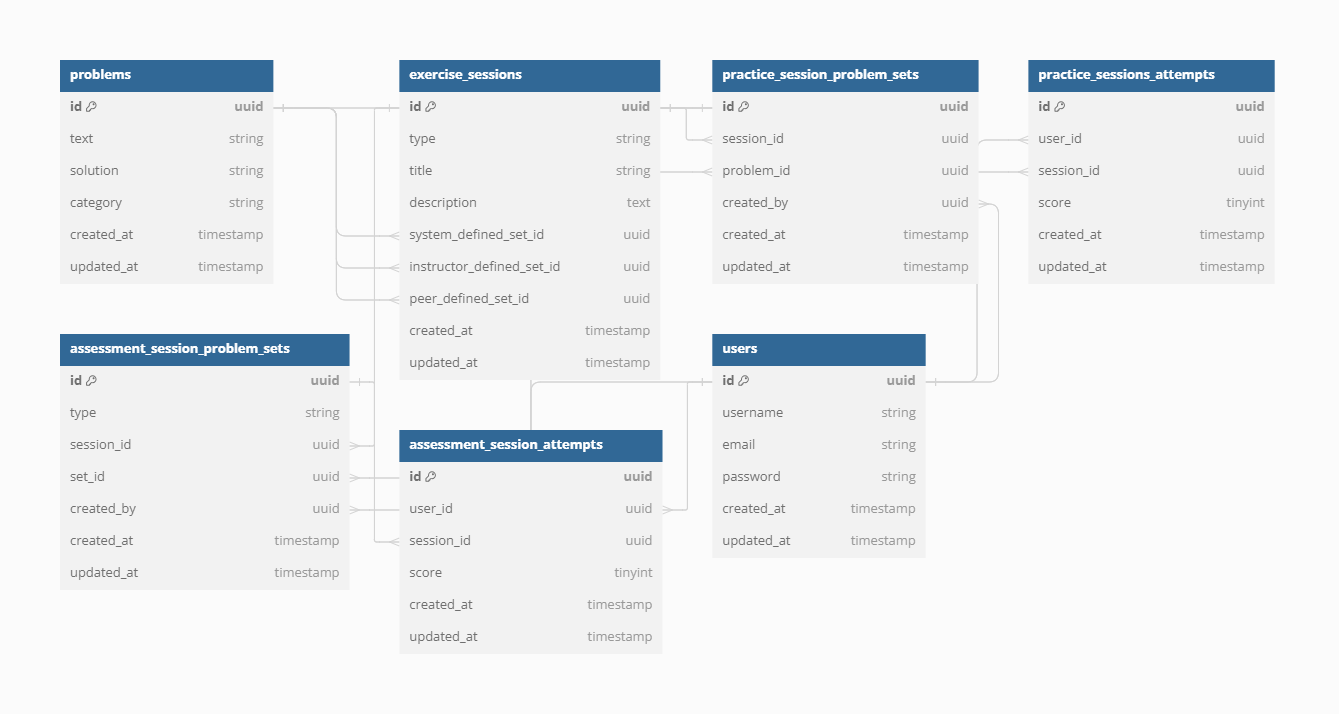
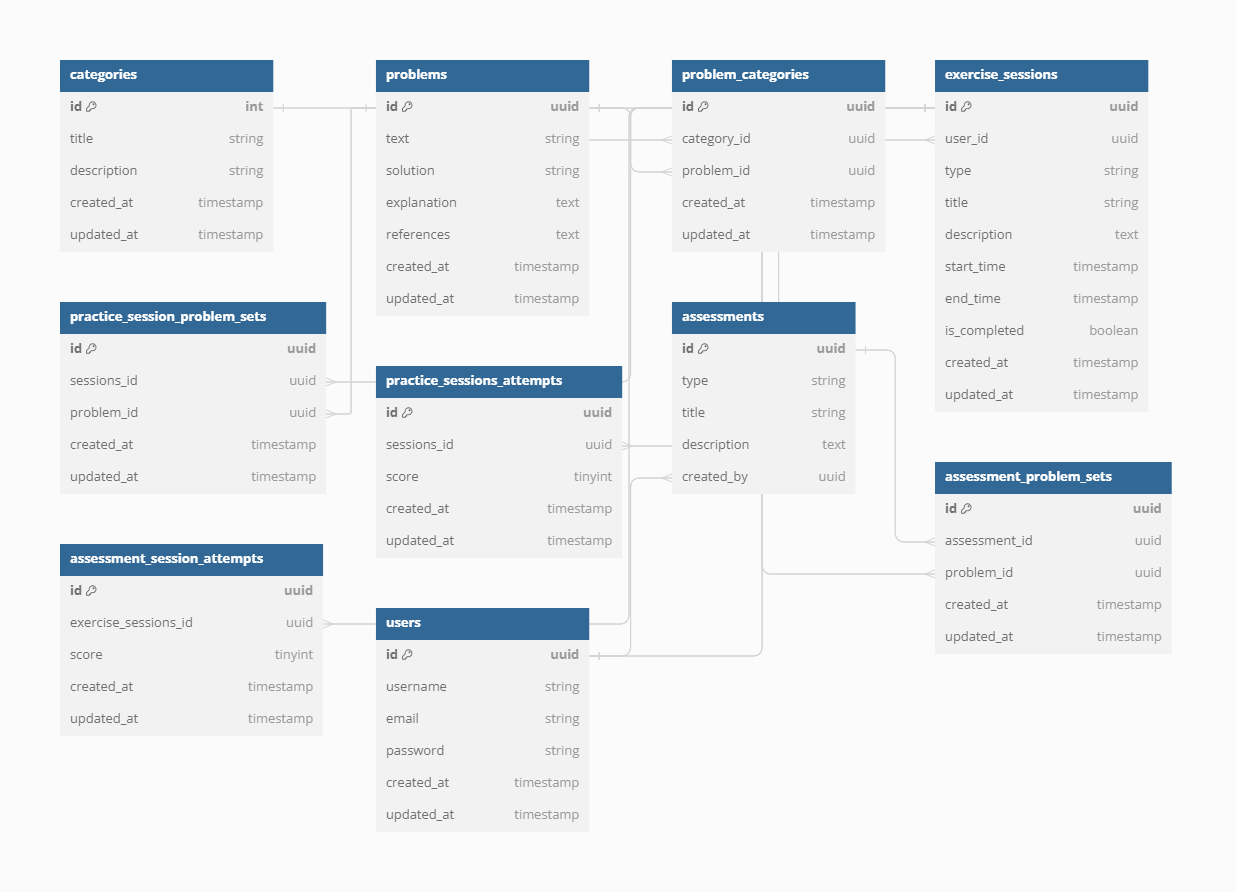
docs: update readme with database diagram

diff --git a/app/database/seeders/ProblemSeeder.php b/app/database/seeders/ProblemSeeder.php
@@ -25,7 +25,6 @@ class ProblemSeeder extends Seeder
                     'id' => Str::uuid(),
                     'text' => $text,
                     'solution' => $solution,
-                    'category_id' => Str::uuid()(),
                     'created_at' => new DateTime(),
                 ]);
             }
@@ -70,7 +69,7 @@ class ProblemSeeder extends Seeder
                     $solution = $i / $j;
                     $text = "$i / $j";
                     
-                    ProblemSet::create([
+                    Problem::create([
                         'id' => Str::uuid(),
                         'text' => $text,
                         'solution' => $solution,
